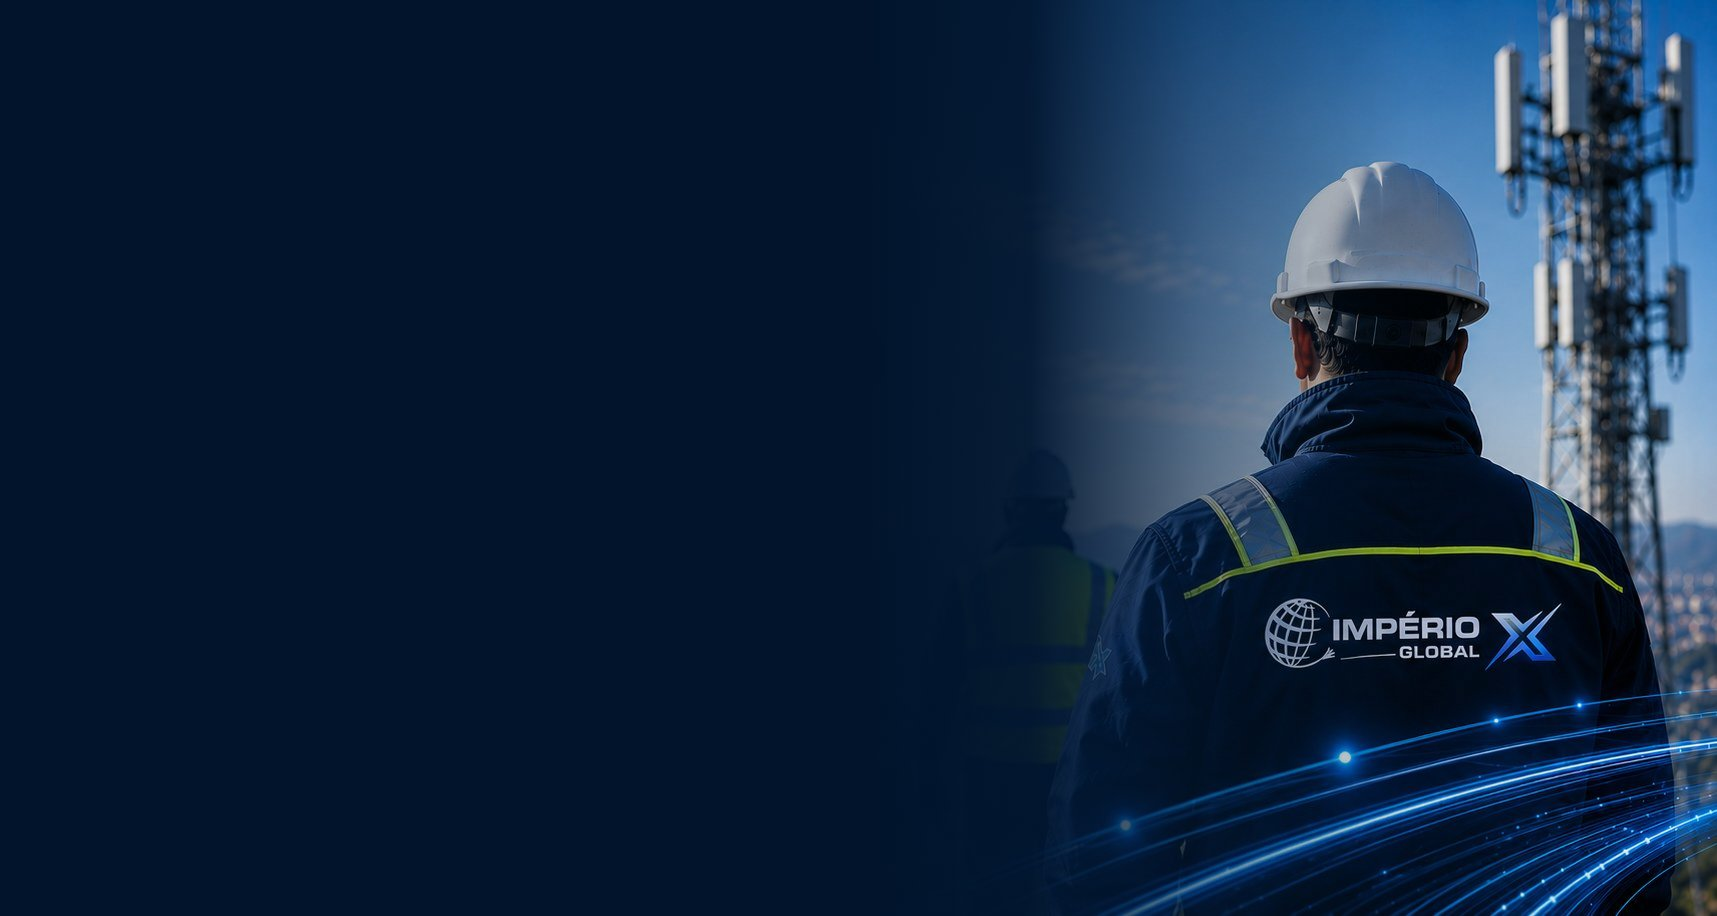
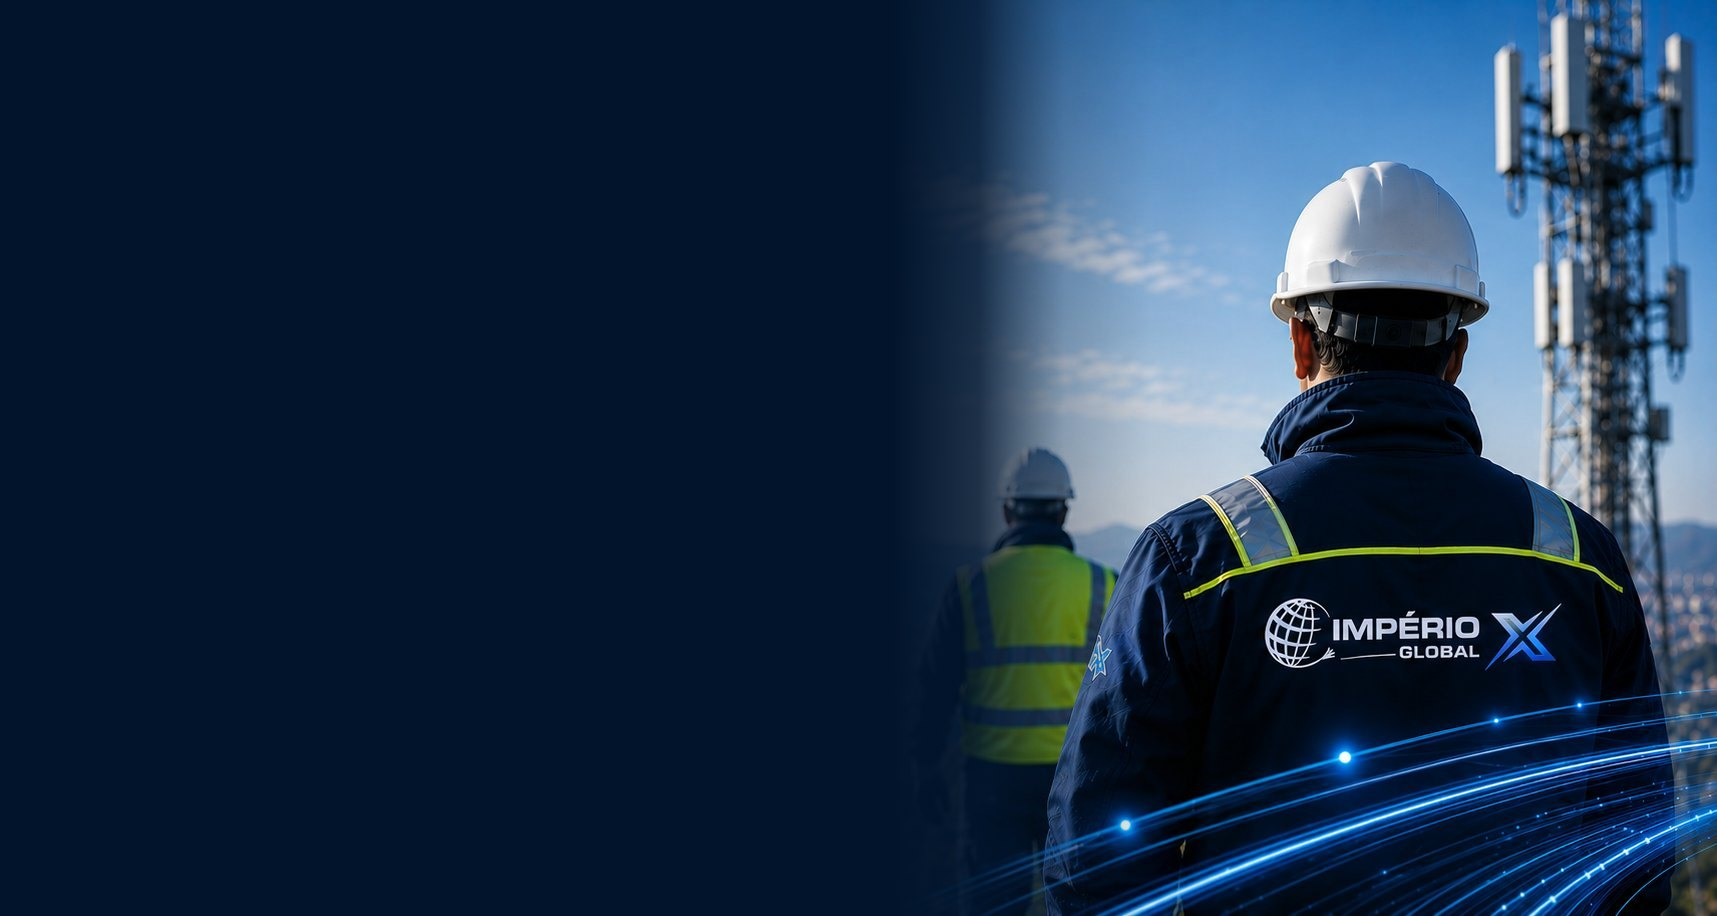
Recrutamento: foto limpa a direita (efeitos visiveis) + Servicos: todos os 9
- recrutamento-bg: degrade so a esquerda (onde vai o texto); tecnico, logotipo
  no casaco e efeitos de luz ficam limpos como no original; sem fantasma
- Pagina Servicos: mostra TODOS os servicos (9), nao so as 4 categorias,
  no novo estilo de card; home mantem os 4 principais agrupados

Claude-Session: https://claude.ai/code/session_01KmCGpcUCuut8EtqZ6Sw2tr

Changed region(s): [[0.5556, 0.0, 0.8643, 1.0]]

diff --git a/en/servicos.html b/en/servicos.html
@@ -62,32 +62,29 @@
         <div class="svc-grid">
           <article class="svc-card rv">
             <div class="svc-card__top">
-              <span class="svc-card__icon" aria-hidden="true"><svg viewBox="0 0 48 48" fill="none" stroke="currentColor" stroke-width="2" stroke-linecap="round" stroke-linejoin="round"><circle cx="24" cy="10" r="4"/><circle cx="10" cy="38" r="4"/><circle cx="38" cy="38" r="4"/><path d="M24 14v10m0 0-11 11m11-11 11 11"/></svg></span>
+              <span class="svc-card__icon" aria-hidden="true"><svg viewBox="0 0 48 48" fill="none" stroke="currentColor" stroke-width="2" stroke-linecap="round" stroke-linejoin="round"><rect x="12" y="7" width="24" height="34" rx="2"/><path d="M19 7v-1h10v1"/><path d="M18 19h12M18 26h12M18 33h8"/></svg></span>
             </div>
             <div class="svc-card__body">
-              <h3>Network construction</h3>
-              <p>Delivery of access infrastructure — from route to connection — across aerial and underground networks.</p>
-              <div class="svc-chips"><span class="chip-svc">Survey & assessment</span><span class="chip-svc">Aerial networks</span><span class="chip-svc">Underground networks</span><span class="chip-svc">Ducts</span><span class="chip-svc">Routes</span><span class="chip-svc">Connections</span></div>
+              <h3>Survey and technical assessment</h3>
+              <p>Field survey and project preparation for the delivery of the infrastructure.</p>
             </div>
           </article>
           <article class="svc-card rv">
             <div class="svc-card__top">
-              <span class="svc-card__icon" aria-hidden="true"><svg viewBox="0 0 48 48" fill="none" stroke="currentColor" stroke-width="2" stroke-linecap="round" stroke-linejoin="round"><path d="M8 40c0-12 8-20 20-20"/><path d="M40 8c0 12-8 20-20 20"/><circle cx="8" cy="40" r="2.5"/><circle cx="40" cy="8" r="2.5"/><circle cx="24" cy="24" r="2.5"/></svg></span>
+              <span class="svc-card__icon" aria-hidden="true"><svg viewBox="0 0 48 48" fill="none" stroke="currentColor" stroke-width="2" stroke-linecap="round" stroke-linejoin="round"><path d="M24 6v36"/><path d="M13 13l11-4 11 4"/><path d="M11 22l13-5 13 5"/><path d="M18 42h12"/></svg></span>
             </div>
             <div class="svc-card__body">
-              <h3>Optical fibre & copper</h3>
-              <p>Laying, splicing and connecting optical fibre and copper, from the main span to the access point.</p>
-              <div class="svc-chips"><span class="chip-svc">Optical fibre</span><span class="chip-svc">Splicing</span><span class="chip-svc">Copper cables</span><span class="chip-svc">Certification</span><span class="chip-svc">Access point</span></div>
+              <h3>Aerial network construction</h3>
+              <p>Installation of access infrastructure on aerial supports, from route to connection.</p>
             </div>
           </article>
           <article class="svc-card rv">
             <div class="svc-card__top">
-              <span class="svc-card__icon" aria-hidden="true"><svg viewBox="0 0 48 48" fill="none" stroke="currentColor" stroke-width="2" stroke-linecap="round" stroke-linejoin="round"><path d="M31 9a8 8 0 0 0-10 10L9 31a3 3 0 0 0 0 4l4 4a3 3 0 0 0 4 0l12-12a8 8 0 0 0 10-10l-6 6-4-4 6-6z"/></svg></span>
+              <span class="svc-card__icon" aria-hidden="true"><svg viewBox="0 0 48 48" fill="none" stroke="currentColor" stroke-width="2" stroke-linecap="round" stroke-linejoin="round"><path d="M5 15h38"/><path d="M14 15v6a4 4 0 0 0 4 4h12a4 4 0 0 1 4 4v6"/><circle cx="14" cy="12" r="2"/><circle cx="34" cy="38" r="2"/><path d="M5 30h38" opacity=".45"/></svg></span>
             </div>
             <div class="svc-card__body">
-              <h3>Maintenance & operation</h3>
-              <p>Preventive and corrective maintenance ensuring the reliability, availability and performance of networks.</p>
-              <div class="svc-chips"><span class="chip-svc">Preventive</span><span class="chip-svc">Corrective</span><span class="chip-svc">Fault diagnosis</span><span class="chip-svc">Repair</span><span class="chip-svc">Fast response (SLA)</span></div>
+              <h3>Underground network construction</h3>
+              <p>Delivery of ducts and underground routes, coordinated with the relevant authorities.</p>
             </div>
           </article>
           <article class="svc-card rv">
@@ -95,9 +92,53 @@
               <span class="svc-card__icon" aria-hidden="true"><svg viewBox="0 0 48 48" fill="none" stroke="currentColor" stroke-width="2" stroke-linecap="round" stroke-linejoin="round"><path d="M6 24h28"/><path d="M26 16l8 8-8 8"/><path d="M40 12v24"/></svg></span>
             </div>
             <div class="svc-card__body">
-              <h3>Expansion & quality</h3>
-              <p>Extension of existing networks and technical auditing, ensuring end-to-end quality.</p>
-              <div class="svc-chips"><span class="chip-svc">Route extension</span><span class="chip-svc">Densification</span><span class="chip-svc">Quality control</span><span class="chip-svc">Auditing</span><span class="chip-svc">Verification</span></div>
+              <h3>Route expansion and extension</h3>
+              <p>Extension and densification of existing networks to keep pace with demand.</p>
+            </div>
+          </article>
+          <article class="svc-card rv">
+            <div class="svc-card__top">
+              <span class="svc-card__icon" aria-hidden="true"><svg viewBox="0 0 48 48" fill="none" stroke="currentColor" stroke-width="2" stroke-linecap="round" stroke-linejoin="round"><path d="M31 9a8 8 0 0 0-10 10L9 31a3 3 0 0 0 0 4l4 4a3 3 0 0 0 4 0l12-12a8 8 0 0 0 10-10l-6 6-4-4 6-6z"/></svg></span>
+            </div>
+            <div class="svc-card__body">
+              <h3>Preventive maintenance</h3>
+              <p>Maintenance plans ensuring the reliability, availability and performance of networks.</p>
+            </div>
+          </article>
+          <article class="svc-card rv">
+            <div class="svc-card__top">
+              <span class="svc-card__icon" aria-hidden="true"><svg viewBox="0 0 48 48" fill="none" stroke="currentColor" stroke-width="2" stroke-linecap="round" stroke-linejoin="round"><path d="M24 6v8m0 20v8M6 24h8m20 0h8"/><circle cx="24" cy="24" r="8"/></svg></span>
+            </div>
+            <div class="svc-card__body">
+              <h3>Fault diagnosis and repair</h3>
+              <p>Detection and repair of faults with fast response and reduced downtime.</p>
+            </div>
+          </article>
+          <article class="svc-card rv">
+            <div class="svc-card__top">
+              <span class="svc-card__icon" aria-hidden="true"><svg viewBox="0 0 48 48" fill="none" stroke="currentColor" stroke-width="2" stroke-linecap="round" stroke-linejoin="round"><path d="M8 40c0-12 8-20 20-20"/><path d="M40 8c0 12-8 20-20 20"/><circle cx="8" cy="40" r="2.5"/><circle cx="40" cy="8" r="2.5"/><circle cx="24" cy="24" r="2.5"/></svg></span>
+            </div>
+            <div class="svc-card__body">
+              <h3>Optical fibre installation and connection</h3>
+              <p>Laying, splicing and connecting optical fibre, from the main span to the access point.</p>
+            </div>
+          </article>
+          <article class="svc-card rv">
+            <div class="svc-card__top">
+              <span class="svc-card__icon" aria-hidden="true"><svg viewBox="0 0 48 48" fill="none" stroke="currentColor" stroke-width="2" stroke-linecap="round" stroke-linejoin="round"><path d="M10 10v12a14 14 0 0 0 28 0V10"/><path d="M6 10h8M34 10h8"/></svg></span>
+            </div>
+            <div class="svc-card__body">
+              <h3>Copper cable installation and connection</h3>
+              <p>Installation, connection and certification of copper infrastructure.</p>
+            </div>
+          </article>
+          <article class="svc-card rv">
+            <div class="svc-card__top">
+              <span class="svc-card__icon" aria-hidden="true"><svg viewBox="0 0 48 48" fill="none" stroke="currentColor" stroke-width="2" stroke-linecap="round" stroke-linejoin="round"><path d="M24 5l16 6v10c0 10-7 17-16 21-9-4-16-11-16-21V11z"/><path d="M17 24l5 5 9-11"/></svg></span>
+            </div>
+            <div class="svc-card__body">
+              <h3>Quality control and network auditing</h3>
+              <p>Verification, certification and technical auditing of the infrastructure delivered.</p>
             </div>
           </article>
         </div>

diff --git a/fr/servicos.html b/fr/servicos.html
@@ -62,32 +62,29 @@
         <div class="svc-grid">
           <article class="svc-card rv">
             <div class="svc-card__top">
-              <span class="svc-card__icon" aria-hidden="true"><svg viewBox="0 0 48 48" fill="none" stroke="currentColor" stroke-width="2" stroke-linecap="round" stroke-linejoin="round"><circle cx="24" cy="10" r="4"/><circle cx="10" cy="38" r="4"/><circle cx="38" cy="38" r="4"/><path d="M24 14v10m0 0-11 11m11-11 11 11"/></svg></span>
+              <span class="svc-card__icon" aria-hidden="true"><svg viewBox="0 0 48 48" fill="none" stroke="currentColor" stroke-width="2" stroke-linecap="round" stroke-linejoin="round"><rect x="12" y="7" width="24" height="34" rx="2"/><path d="M19 7v-1h10v1"/><path d="M18 19h12M18 26h12M18 33h8"/></svg></span>
             </div>
             <div class="svc-card__body">
-              <h3>Construction de réseaux</h3>
-              <p>Réalisation d'infrastructures d'accès — du tracé au raccordement — en réseaux aériens et souterrains.</p>
-              <div class="svc-chips"><span class="chip-svc">Survey & relevé</span><span class="chip-svc">Réseaux aériens</span><span class="chip-svc">Réseaux souterrains</span><span class="chip-svc">Conduites</span><span class="chip-svc">Tracés</span><span class="chip-svc">Raccordements</span></div>
+              <h3>Survey et relevé technique</h3>
+              <p>Relevé de terrain et préparation du projet pour la réalisation des infrastructures.</p>
             </div>
           </article>
           <article class="svc-card rv">
             <div class="svc-card__top">
-              <span class="svc-card__icon" aria-hidden="true"><svg viewBox="0 0 48 48" fill="none" stroke="currentColor" stroke-width="2" stroke-linecap="round" stroke-linejoin="round"><path d="M8 40c0-12 8-20 20-20"/><path d="M40 8c0 12-8 20-20 20"/><circle cx="8" cy="40" r="2.5"/><circle cx="40" cy="8" r="2.5"/><circle cx="24" cy="24" r="2.5"/></svg></span>
+              <span class="svc-card__icon" aria-hidden="true"><svg viewBox="0 0 48 48" fill="none" stroke="currentColor" stroke-width="2" stroke-linecap="round" stroke-linejoin="round"><path d="M24 6v36"/><path d="M13 13l11-4 11 4"/><path d="M11 22l13-5 13 5"/><path d="M18 42h12"/></svg></span>
             </div>
             <div class="svc-card__body">
-              <h3>Fibre optique & cuivre</h3>
-              <p>Tirage, soudure et raccordement de la fibre optique et du cuivre, du tronçon principal au point d'accès.</p>
-              <div class="svc-chips"><span class="chip-svc">Fibre optique</span><span class="chip-svc">Soudure</span><span class="chip-svc">Câbles cuivre</span><span class="chip-svc">Certification</span><span class="chip-svc">Point d'accès</span></div>
+              <h3>Construction de réseaux aériens</h3>
+              <p>Installation d'infrastructures d'accès sur appuis aériens, du tracé au raccordement.</p>
             </div>
           </article>
           <article class="svc-card rv">
             <div class="svc-card__top">
-              <span class="svc-card__icon" aria-hidden="true"><svg viewBox="0 0 48 48" fill="none" stroke="currentColor" stroke-width="2" stroke-linecap="round" stroke-linejoin="round"><path d="M31 9a8 8 0 0 0-10 10L9 31a3 3 0 0 0 0 4l4 4a3 3 0 0 0 4 0l12-12a8 8 0 0 0 10-10l-6 6-4-4 6-6z"/></svg></span>
+              <span class="svc-card__icon" aria-hidden="true"><svg viewBox="0 0 48 48" fill="none" stroke="currentColor" stroke-width="2" stroke-linecap="round" stroke-linejoin="round"><path d="M5 15h38"/><path d="M14 15v6a4 4 0 0 0 4 4h12a4 4 0 0 1 4 4v6"/><circle cx="14" cy="12" r="2"/><circle cx="34" cy="38" r="2"/><path d="M5 30h38" opacity=".45"/></svg></span>
             </div>
             <div class="svc-card__body">
-              <h3>Maintenance & exploitation</h3>
-              <p>Maintenance préventive et corrective assurant la fiabilité, la disponibilité et la performance des réseaux.</p>
-              <div class="svc-chips"><span class="chip-svc">Préventive</span><span class="chip-svc">Corrective</span><span class="chip-svc">Diagnostic de pannes</span><span class="chip-svc">Réparation</span><span class="chip-svc">Réponse rapide (SLA)</span></div>
+              <h3>Construction de réseaux souterrains</h3>
+              <p>Réalisation de conduites et de tracés souterrains, coordonnée avec les autorités compétentes.</p>
             </div>
           </article>
           <article class="svc-card rv">
@@ -95,9 +92,53 @@
               <span class="svc-card__icon" aria-hidden="true"><svg viewBox="0 0 48 48" fill="none" stroke="currentColor" stroke-width="2" stroke-linecap="round" stroke-linejoin="round"><path d="M6 24h28"/><path d="M26 16l8 8-8 8"/><path d="M40 12v24"/></svg></span>
             </div>
             <div class="svc-card__body">
-              <h3>Expansion & qualité</h3>
-              <p>Extension des réseaux existants et audit technique, garantissant une qualité end-to-end.</p>
-              <div class="svc-chips"><span class="chip-svc">Extension de tracés</span><span class="chip-svc">Densification</span><span class="chip-svc">Contrôle qualité</span><span class="chip-svc">Audit</span><span class="chip-svc">Vérification</span></div>
+              <h3>Expansion et extension des tracés</h3>
+              <p>Extension et densification des réseaux existants pour suivre la demande.</p>
+            </div>
+          </article>
+          <article class="svc-card rv">
+            <div class="svc-card__top">
+              <span class="svc-card__icon" aria-hidden="true"><svg viewBox="0 0 48 48" fill="none" stroke="currentColor" stroke-width="2" stroke-linecap="round" stroke-linejoin="round"><path d="M31 9a8 8 0 0 0-10 10L9 31a3 3 0 0 0 0 4l4 4a3 3 0 0 0 4 0l12-12a8 8 0 0 0 10-10l-6 6-4-4 6-6z"/></svg></span>
+            </div>
+            <div class="svc-card__body">
+              <h3>Maintenance préventive</h3>
+              <p>Des plans de maintenance qui assurent la fiabilité, la disponibilité et la performance des réseaux.</p>
+            </div>
+          </article>
+          <article class="svc-card rv">
+            <div class="svc-card__top">
+              <span class="svc-card__icon" aria-hidden="true"><svg viewBox="0 0 48 48" fill="none" stroke="currentColor" stroke-width="2" stroke-linecap="round" stroke-linejoin="round"><path d="M24 6v8m0 20v8M6 24h8m20 0h8"/><circle cx="24" cy="24" r="8"/></svg></span>
+            </div>
+            <div class="svc-card__body">
+              <h3>Diagnostic et résolution de pannes</h3>
+              <p>Détection et réparation des pannes avec réactivité et réduction des temps d'indisponibilité.</p>
+            </div>
+          </article>
+          <article class="svc-card rv">
+            <div class="svc-card__top">
+              <span class="svc-card__icon" aria-hidden="true"><svg viewBox="0 0 48 48" fill="none" stroke="currentColor" stroke-width="2" stroke-linecap="round" stroke-linejoin="round"><path d="M8 40c0-12 8-20 20-20"/><path d="M40 8c0 12-8 20-20 20"/><circle cx="8" cy="40" r="2.5"/><circle cx="40" cy="8" r="2.5"/><circle cx="24" cy="24" r="2.5"/></svg></span>
+            </div>
+            <div class="svc-card__body">
+              <h3>Installation et raccordement de fibre optique</h3>
+              <p>Tirage, soudure et raccordement de la fibre optique, du tronçon principal au point d'accès.</p>
+            </div>
+          </article>
+          <article class="svc-card rv">
+            <div class="svc-card__top">
+              <span class="svc-card__icon" aria-hidden="true"><svg viewBox="0 0 48 48" fill="none" stroke="currentColor" stroke-width="2" stroke-linecap="round" stroke-linejoin="round"><path d="M10 10v12a14 14 0 0 0 28 0V10"/><path d="M6 10h8M34 10h8"/></svg></span>
+            </div>
+            <div class="svc-card__body">
+              <h3>Installation et raccordement de câbles en cuivre</h3>
+              <p>Installation, raccordement et certification d'infrastructures en cuivre.</p>
+            </div>
+          </article>
+          <article class="svc-card rv">
+            <div class="svc-card__top">
+              <span class="svc-card__icon" aria-hidden="true"><svg viewBox="0 0 48 48" fill="none" stroke="currentColor" stroke-width="2" stroke-linecap="round" stroke-linejoin="round"><path d="M24 5l16 6v10c0 10-7 17-16 21-9-4-16-11-16-21V11z"/><path d="M17 24l5 5 9-11"/></svg></span>
+            </div>
+            <div class="svc-card__body">
+              <h3>Contrôle qualité et audit des réseaux</h3>
+              <p>Vérification, certification et audit technique des infrastructures réalisées.</p>
             </div>
           </article>
         </div>

diff --git a/servicos.html b/servicos.html
@@ -62,32 +62,29 @@
         <div class="svc-grid">
           <article class="svc-card rv">
             <div class="svc-card__top">
-              <span class="svc-card__icon" aria-hidden="true"><svg viewBox="0 0 48 48" fill="none" stroke="currentColor" stroke-width="2" stroke-linecap="round" stroke-linejoin="round"><circle cx="24" cy="10" r="4"/><circle cx="10" cy="38" r="4"/><circle cx="38" cy="38" r="4"/><path d="M24 14v10m0 0-11 11m11-11 11 11"/></svg></span>
+              <span class="svc-card__icon" aria-hidden="true"><svg viewBox="0 0 48 48" fill="none" stroke="currentColor" stroke-width="2" stroke-linecap="round" stroke-linejoin="round"><rect x="12" y="7" width="24" height="34" rx="2"/><path d="M19 7v-1h10v1"/><path d="M18 19h12M18 26h12M18 33h8"/></svg></span>
             </div>
             <div class="svc-card__body">
-              <h3>Construção de redes</h3>
-              <p>Execução de infraestruturas de acesso — do traçado à ligação — em redes aéreas e subterrâneas.</p>
-              <div class="svc-chips"><span class="chip-svc">Survey e levantamento</span><span class="chip-svc">Redes aéreas</span><span class="chip-svc">Redes subterrâneas</span><span class="chip-svc">Condutas</span><span class="chip-svc">Traçados</span><span class="chip-svc">Ligações</span></div>
+              <h3>Survey e levantamento técnico</h3>
+              <p>Levantamento de campo e preparação de projeto para a execução das infraestruturas.</p>
             </div>
           </article>
           <article class="svc-card rv">
             <div class="svc-card__top">
-              <span class="svc-card__icon" aria-hidden="true"><svg viewBox="0 0 48 48" fill="none" stroke="currentColor" stroke-width="2" stroke-linecap="round" stroke-linejoin="round"><path d="M8 40c0-12 8-20 20-20"/><path d="M40 8c0 12-8 20-20 20"/><circle cx="8" cy="40" r="2.5"/><circle cx="40" cy="8" r="2.5"/><circle cx="24" cy="24" r="2.5"/></svg></span>
+              <span class="svc-card__icon" aria-hidden="true"><svg viewBox="0 0 48 48" fill="none" stroke="currentColor" stroke-width="2" stroke-linecap="round" stroke-linejoin="round"><path d="M24 6v36"/><path d="M13 13l11-4 11 4"/><path d="M11 22l13-5 13 5"/><path d="M18 42h12"/></svg></span>
             </div>
             <div class="svc-card__body">
-              <h3>Fibra ótica e cobre</h3>
-              <p>Lançamento, fusão e ligação de fibra ótica e cobre, do troço principal ao ponto de acesso.</p>
-              <div class="svc-chips"><span class="chip-svc">Fibra ótica</span><span class="chip-svc">Fusão</span><span class="chip-svc">Cabos de cobre</span><span class="chip-svc">Certificação</span><span class="chip-svc">Ponto de acesso</span></div>
+              <h3>Construção de redes aéreas</h3>
+              <p>Instalação de infraestruturas de acesso em apoios aéreos, do traçado à ligação.</p>
             </div>
           </article>
           <article class="svc-card rv">
             <div class="svc-card__top">
-              <span class="svc-card__icon" aria-hidden="true"><svg viewBox="0 0 48 48" fill="none" stroke="currentColor" stroke-width="2" stroke-linecap="round" stroke-linejoin="round"><path d="M31 9a8 8 0 0 0-10 10L9 31a3 3 0 0 0 0 4l4 4a3 3 0 0 0 4 0l12-12a8 8 0 0 0 10-10l-6 6-4-4 6-6z"/></svg></span>
+              <span class="svc-card__icon" aria-hidden="true"><svg viewBox="0 0 48 48" fill="none" stroke="currentColor" stroke-width="2" stroke-linecap="round" stroke-linejoin="round"><path d="M5 15h38"/><path d="M14 15v6a4 4 0 0 0 4 4h12a4 4 0 0 1 4 4v6"/><circle cx="14" cy="12" r="2"/><circle cx="34" cy="38" r="2"/><path d="M5 30h38" opacity=".45"/></svg></span>
             </div>
             <div class="svc-card__body">
-              <h3>Manutenção e operação</h3>
-              <p>Manutenção preventiva e corretiva que assegura a fiabilidade, disponibilidade e desempenho das redes.</p>
-              <div class="svc-chips"><span class="chip-svc">Preventiva</span><span class="chip-svc">Corretiva</span><span class="chip-svc">Diagnóstico de avarias</span><span class="chip-svc">Reparação</span><span class="chip-svc">Resposta rápida (SLA)</span></div>
+              <h3>Construção de redes subterrâneas</h3>
+              <p>Execução de condutas e traçados subterrâneos, coordenada com as entidades competentes.</p>
             </div>
           </article>
           <article class="svc-card rv">
@@ -95,9 +92,53 @@
               <span class="svc-card__icon" aria-hidden="true"><svg viewBox="0 0 48 48" fill="none" stroke="currentColor" stroke-width="2" stroke-linecap="round" stroke-linejoin="round"><path d="M6 24h28"/><path d="M26 16l8 8-8 8"/><path d="M40 12v24"/></svg></span>
             </div>
             <div class="svc-card__body">
-              <h3>Expansão e qualidade</h3>
-              <p>Ampliação de redes existentes e auditoria técnica, garantindo qualidade end-to-end.</p>
-              <div class="svc-chips"><span class="chip-svc">Ampliação de traçados</span><span class="chip-svc">Densificação</span><span class="chip-svc">Controlo de qualidade</span><span class="chip-svc">Auditoria</span><span class="chip-svc">Verificação</span></div>
+              <h3>Expansão e ampliação de traçados</h3>
+              <p>Prolongamento e densificação de redes existentes para acompanhar a procura.</p>
+            </div>
+          </article>
+          <article class="svc-card rv">
+            <div class="svc-card__top">
+              <span class="svc-card__icon" aria-hidden="true"><svg viewBox="0 0 48 48" fill="none" stroke="currentColor" stroke-width="2" stroke-linecap="round" stroke-linejoin="round"><path d="M31 9a8 8 0 0 0-10 10L9 31a3 3 0 0 0 0 4l4 4a3 3 0 0 0 4 0l12-12a8 8 0 0 0 10-10l-6 6-4-4 6-6z"/></svg></span>
+            </div>
+            <div class="svc-card__body">
+              <h3>Manutenção preventiva</h3>
+              <p>Planos de manutenção que asseguram a fiabilidade, disponibilidade e desempenho das redes.</p>
+            </div>
+          </article>
+          <article class="svc-card rv">
+            <div class="svc-card__top">
+              <span class="svc-card__icon" aria-hidden="true"><svg viewBox="0 0 48 48" fill="none" stroke="currentColor" stroke-width="2" stroke-linecap="round" stroke-linejoin="round"><path d="M24 6v8m0 20v8M6 24h8m20 0h8"/><circle cx="24" cy="24" r="8"/></svg></span>
+            </div>
+            <div class="svc-card__body">
+              <h3>Diagnóstico e resolução de avarias</h3>
+              <p>Deteção e reparação de avarias com capacidade de resposta e redução do tempo de indisponibilidade.</p>
+            </div>
+          </article>
+          <article class="svc-card rv">
+            <div class="svc-card__top">
+              <span class="svc-card__icon" aria-hidden="true"><svg viewBox="0 0 48 48" fill="none" stroke="currentColor" stroke-width="2" stroke-linecap="round" stroke-linejoin="round"><path d="M8 40c0-12 8-20 20-20"/><path d="M40 8c0 12-8 20-20 20"/><circle cx="8" cy="40" r="2.5"/><circle cx="40" cy="8" r="2.5"/><circle cx="24" cy="24" r="2.5"/></svg></span>
+            </div>
+            <div class="svc-card__body">
+              <h3>Instalação e ligação de cabos de fibra ótica</h3>
+              <p>Lançamento, fusão e ligação de fibra ótica, do troço principal ao ponto de acesso.</p>
+            </div>
+          </article>
+          <article class="svc-card rv">
+            <div class="svc-card__top">
+              <span class="svc-card__icon" aria-hidden="true"><svg viewBox="0 0 48 48" fill="none" stroke="currentColor" stroke-width="2" stroke-linecap="round" stroke-linejoin="round"><path d="M10 10v12a14 14 0 0 0 28 0V10"/><path d="M6 10h8M34 10h8"/></svg></span>
+            </div>
+            <div class="svc-card__body">
+              <h3>Instalação e ligação de cabos de cobre</h3>
+              <p>Instalação, ligação e certificação de infraestruturas em cobre.</p>
+            </div>
+          </article>
+          <article class="svc-card rv">
+            <div class="svc-card__top">
+              <span class="svc-card__icon" aria-hidden="true"><svg viewBox="0 0 48 48" fill="none" stroke="currentColor" stroke-width="2" stroke-linecap="round" stroke-linejoin="round"><path d="M24 5l16 6v10c0 10-7 17-16 21-9-4-16-11-16-21V11z"/><path d="M17 24l5 5 9-11"/></svg></span>
+            </div>
+            <div class="svc-card__body">
+              <h3>Controlo de qualidade e auditoria de redes</h3>
+              <p>Verificação, certificação e auditoria técnica das infraestruturas executadas.</p>
             </div>
           </article>
         </div>